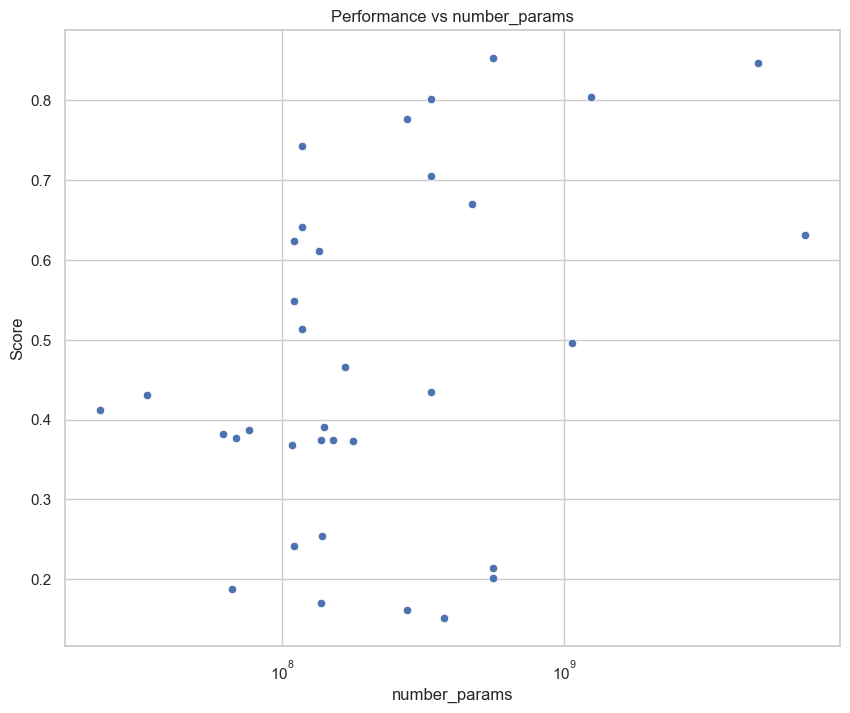
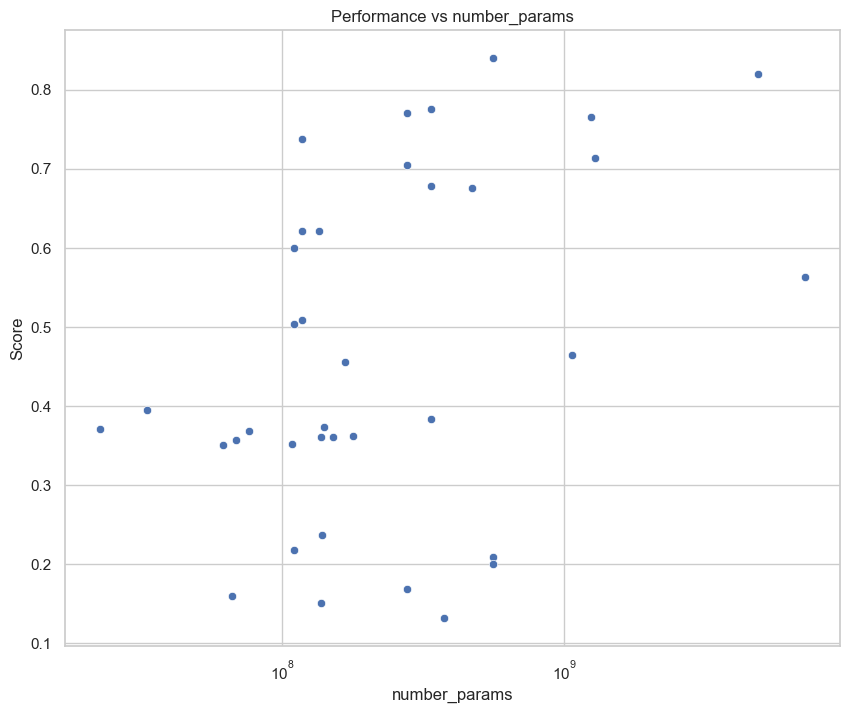
generate new perf vs charac charts

diff --git a/script_mteb_french/results_analysis/performance_vs_characteristics.py b/script_mteb_french/results_analysis/performance_vs_characteristics.py
@@ -43,6 +43,7 @@ def parse_args() -> Namespace:
 def prepare_data(
     results_df: pd.DataFrame, characteristics_df: pd.DataFrame, mode: str = "avg"
 ):
+    results_df = results_df.fillna(0)
     data = results_df.assign(**results_df.iloc[:, 1:].rank(pct=True))
     data = data.melt(id_vars="model", var_name="dataset", value_name="score")
     data = data[["model", "score"]]
@@ -102,19 +103,11 @@ if __name__ == "__main__":
     args = parse_args()
     rp = ResultsParser()
     results_df = rp(args.results_folder, return_main_scores=False)
-    results_df = results_df.drop(
-        columns=[
-            ("BitextMining", "DiaBLaBitextMining"),
-            ("BitextMining", "FloresBitextMining"),
-        ]
-    )
     results_df = results_df.droplevel(0, axis=1)
     results_df = results_df.reset_index()
     results_df["model"] = results_df["model"].apply(
         lambda x: x.replace(args.results_folder, "")
     )
-    # this should not be necessary with final csv
-    results_df = results_df.dropna(axis=1, how="all").dropna(axis=0, how="any")
     characteristics_df = pd.read_csv(args.characteristics_csv)
     global_correlation(results_df, characteristics_df, args.output_folder)
     for k, v in CHARACTERISTICS.items():
